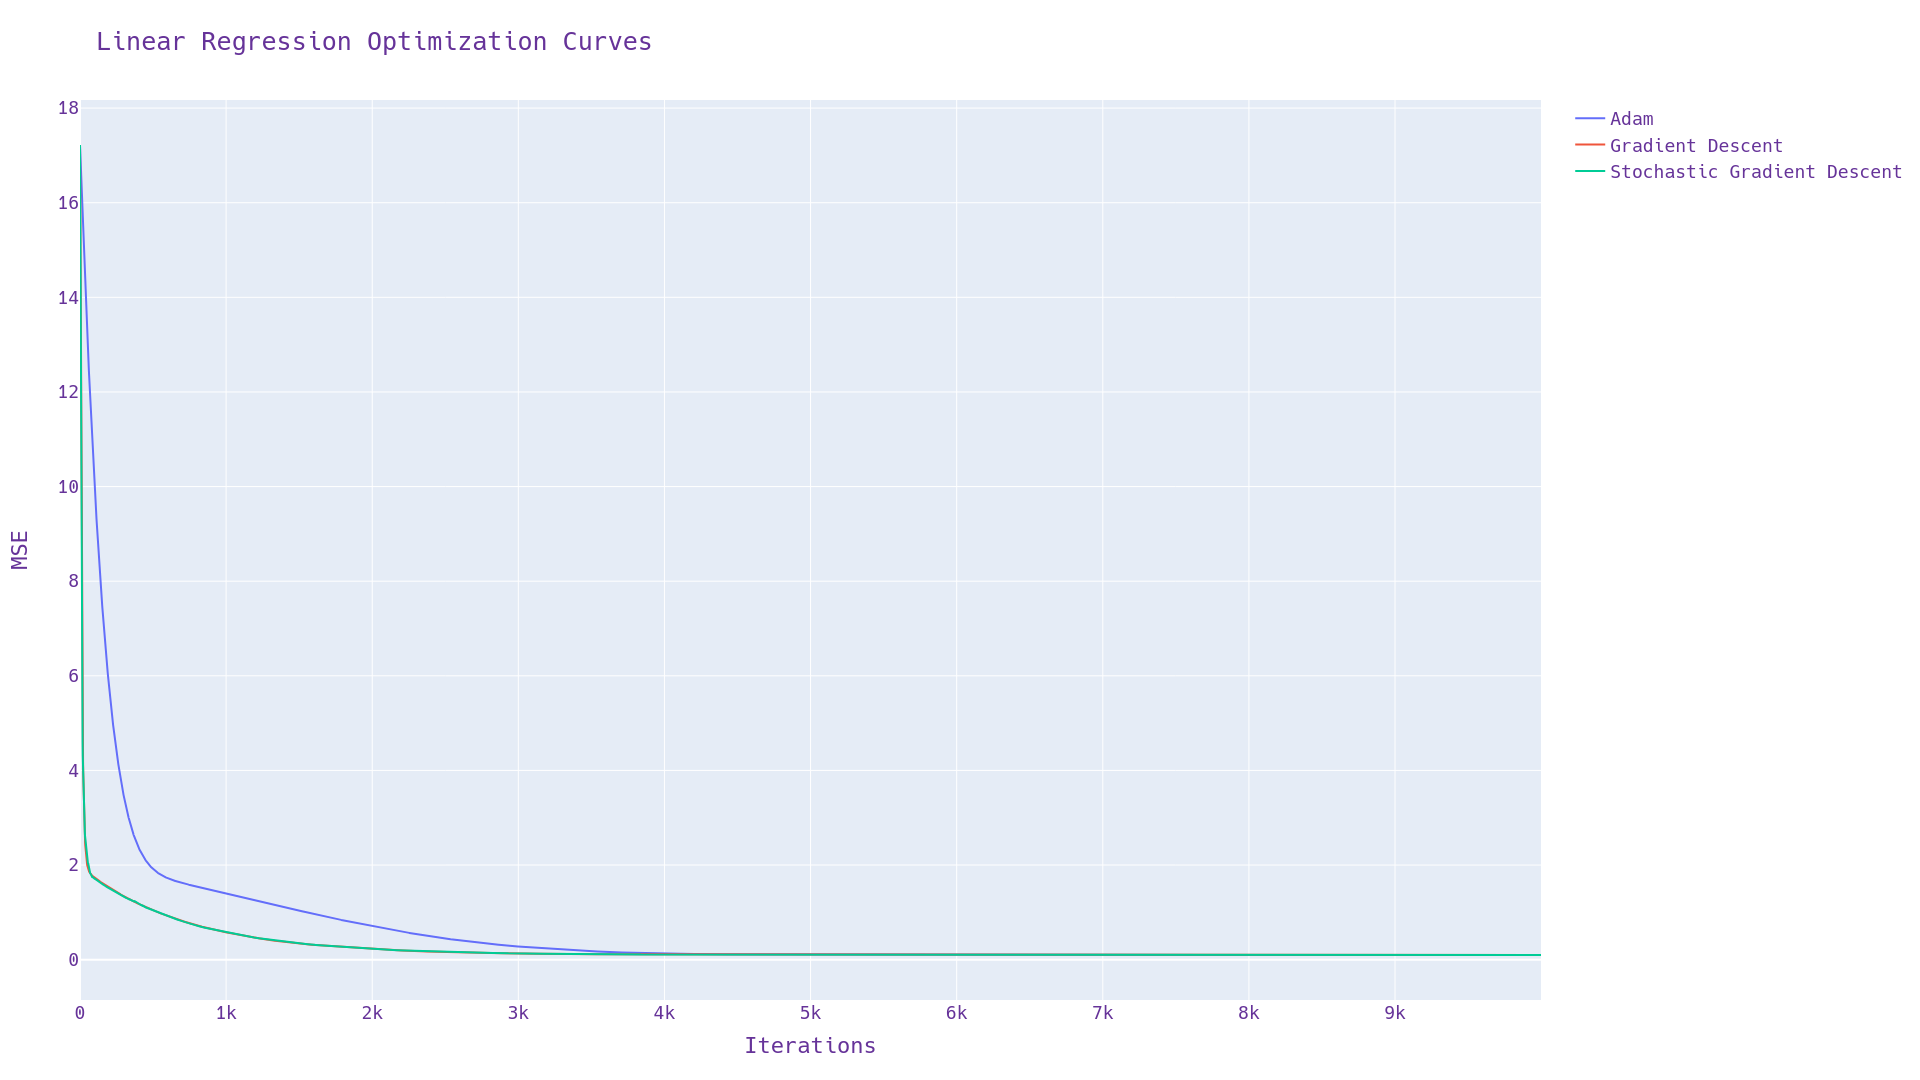
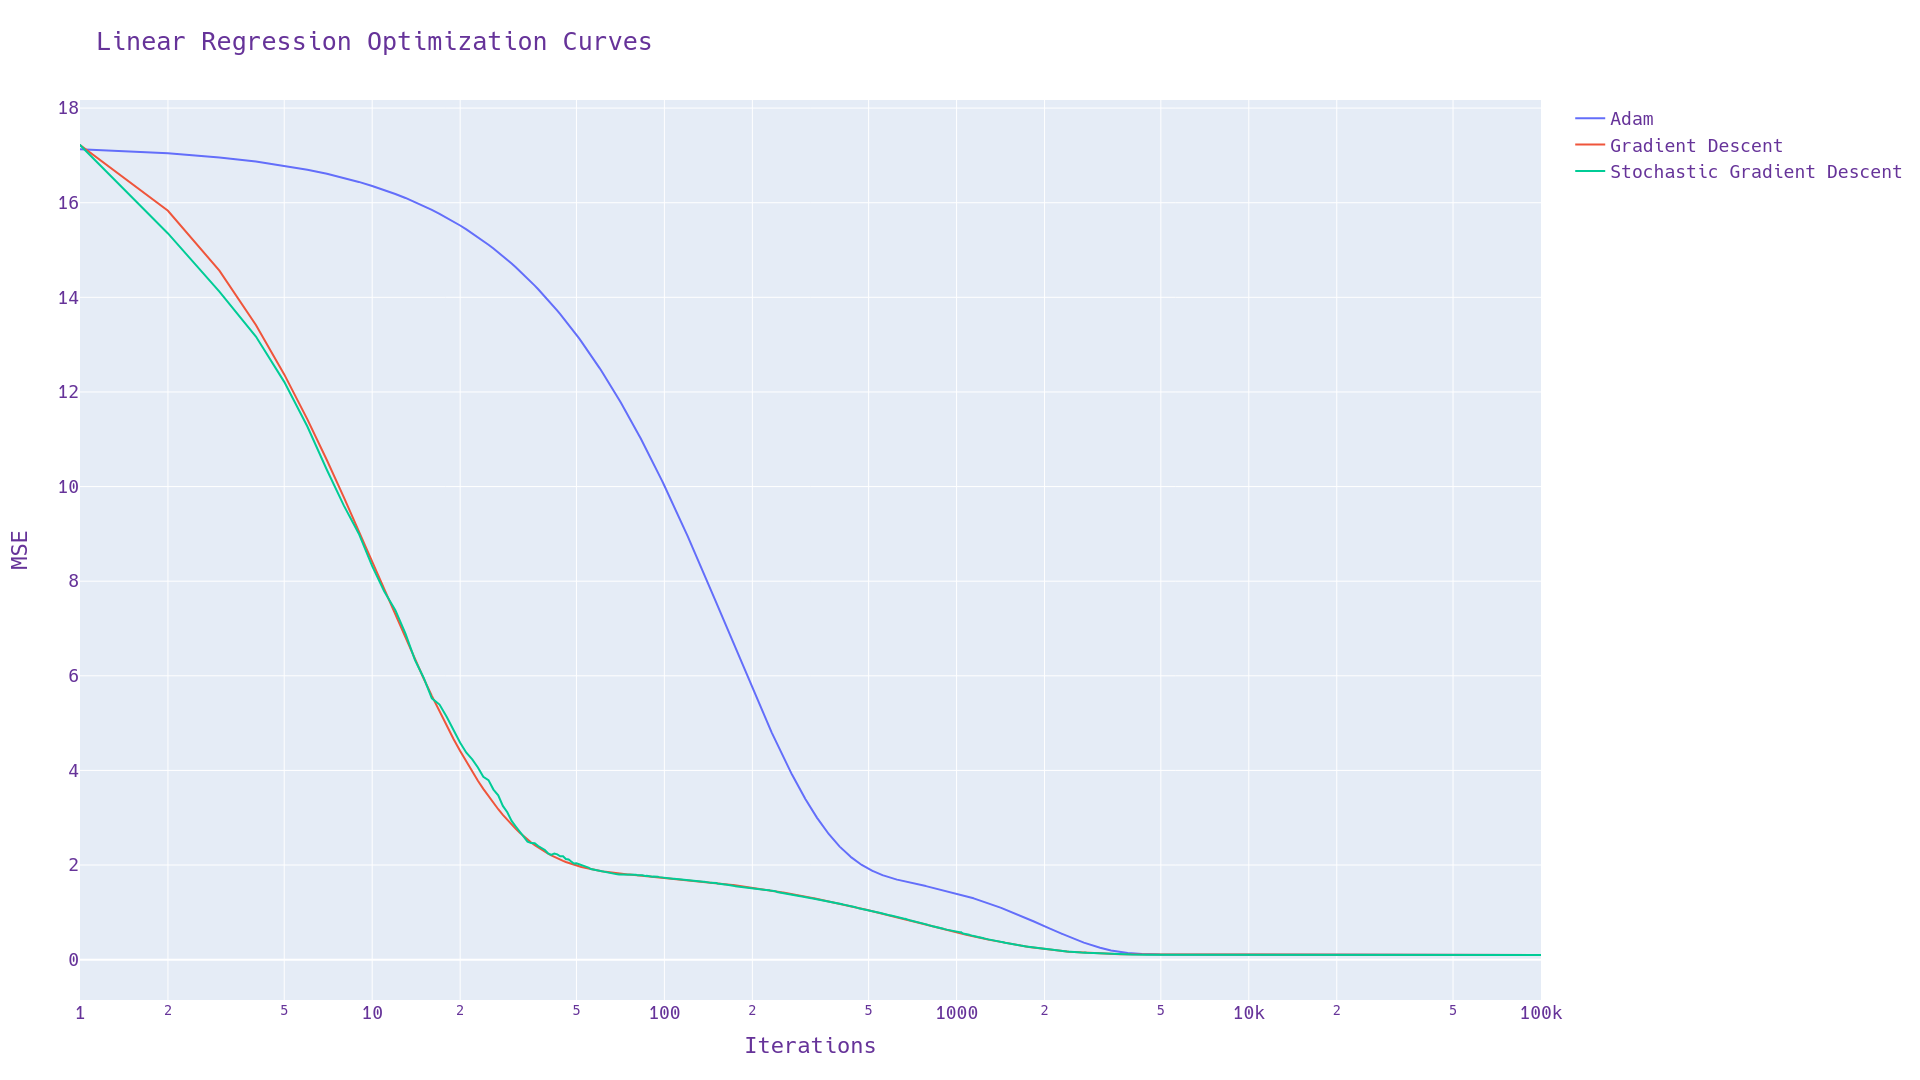
fix: changed scale to logarithmic

diff --git a/model.py b/model.py
@@ -7,7 +7,7 @@ import plotly.express as px
 import plotly.graph_objects as go
 import numpy as np
 
-EPOCHS = 10000
+EPOCHS = 100000
 DEFAULT_LR = 1e-3
 
 '''
@@ -31,6 +31,7 @@ def main():
     fig.add_scatter(x=list(range(EPOCHS)), y=gd_learning_curve, name='Gradient Descent', mode='lines')
     fig.add_scatter(x=list(range(EPOCHS)), y=sgd_learning_curve, name='Stochastic Gradient Descent', mode='lines')
 
+    fig.update_xaxes(type='log')
     fig.update_layout(
         title='Linear Regression Optimization Curves',
         xaxis_title='Iterations',
@@ -64,6 +65,7 @@ def main():
     fig.add_scatter(x=list(range(EPOCHS)), y=gd_learning_curve, name='Gradient Descent', mode='lines')
     fig.add_scatter(x=list(range(EPOCHS)), y=sgd_learning_curve, name='Stochastic Gradient Descent', mode='lines')
 
+    fig.update_xaxes(type='log')
     fig.update_layout(
         title='Logistic Regression Optimization Curves',
         xaxis_title='Iterations',
@@ -216,8 +218,6 @@ class LogisticRegression:
 
     def obj_fn(self, X, y):
         cost = ((self.predict(X) - y).T @ X) / X.shape[0]
-        print(cost)
-
         return cost
 
 
